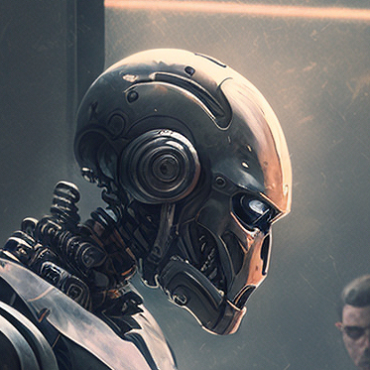
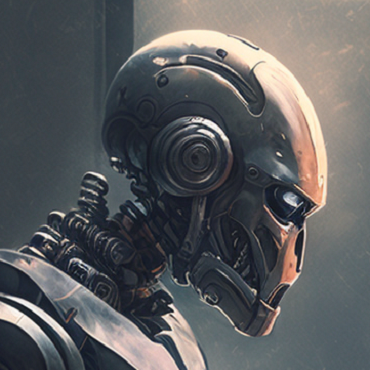
CG氏の画像変更

diff --git a/docs/index.html b/docs/index.html
@@ -1297,7 +1297,7 @@
       <div class="col-lg-3 col-md-6 d-flex align-items-stretch">
         <div class="member" data-aos="fade-up" data-aos-delay="100">
           <div class="member-img">
-            <img src="img/team/portrait1.png" class="img-fluid" alt="">
+            <img src="img/team/portrait2.png" class="img-fluid" alt="">
           </div>
           <div class="member-info">
             <h4>CG氏</h4>
